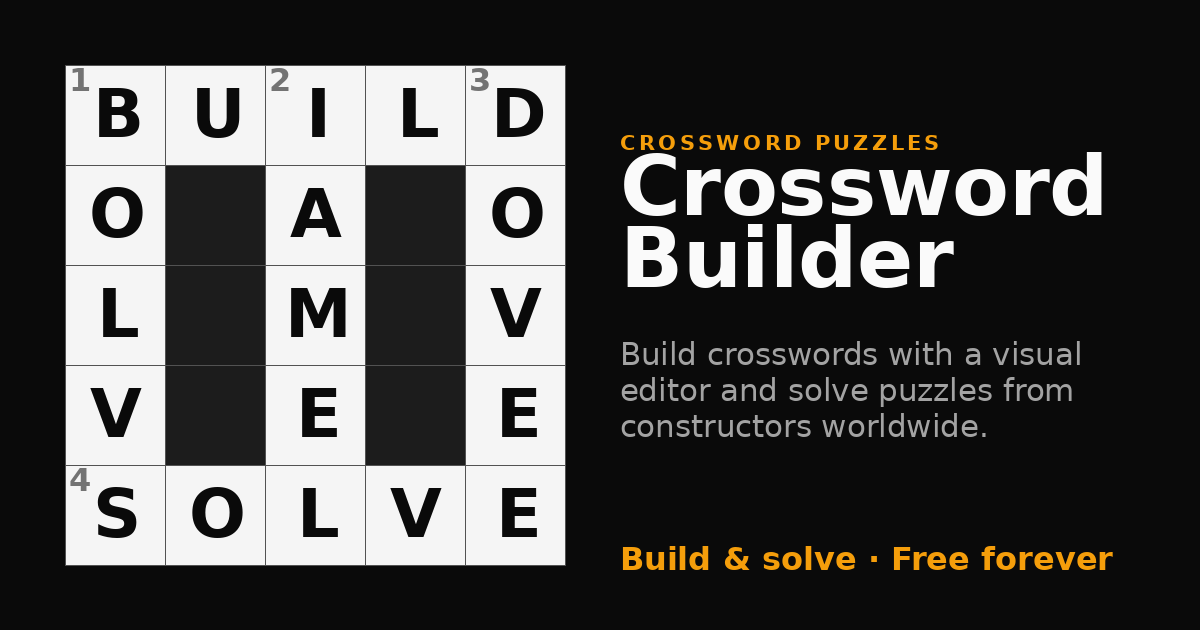
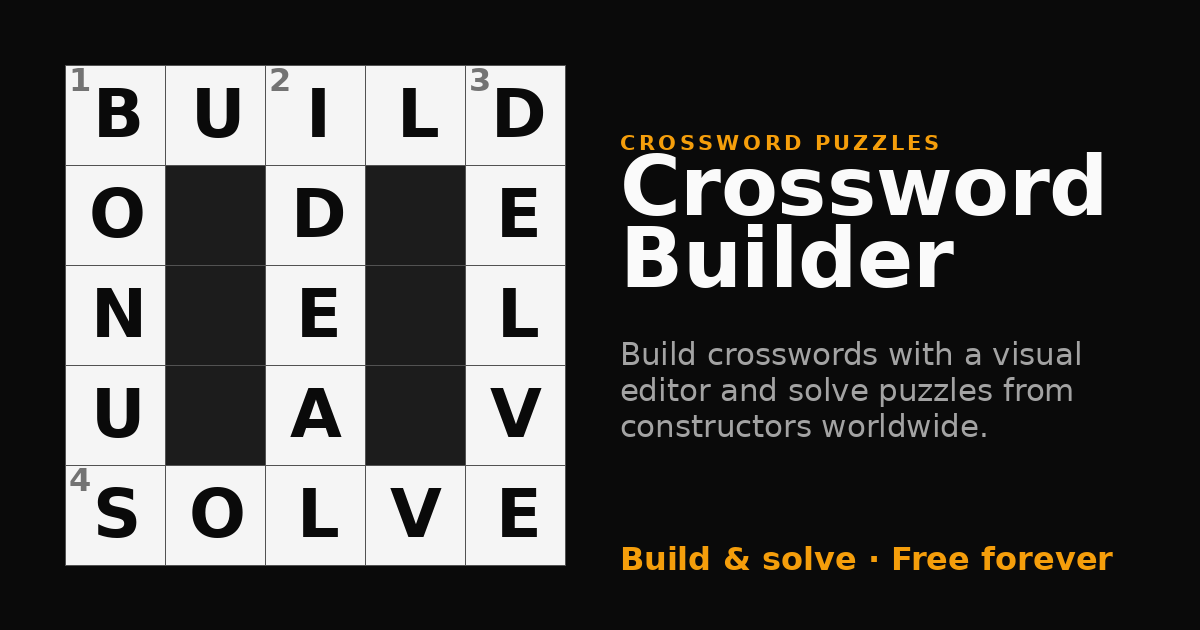
Prepare for launch

diff --git a/app/Support/SiteOgImageGenerator.php b/app/Support/SiteOgImageGenerator.php
@@ -53,18 +53,18 @@ class SiteOgImageGenerator
     private const COLOR_MUTED = [0x73, 0x73, 0x73];
 
     /**
-     * A fixed 5x5 decorative grid. `#` = block and a letter = a filled answer
-     * cell. Reads BUILD across the top row and SOLVE across the bottom row —
-     * a compact nod to the product's two halves. The remaining cells are
-     * decorative fill (the image is never solved), so they need not spell words.
+     * A fixed 5x5 mini crossword. `#` = block and a letter = a filled answer
+     * cell. It fully interlocks: BUILD / SOLVE run across the top and bottom
+     * rows, and BONUS / IDEAL / DELVE run down the three open columns — a
+     * compact nod to the product's two halves.
      *
      * @var list<string>
      */
     private const GRID = [
         'BUILD',
-        'O#A#O',
-        'L#M#V',
-        'V#E#E',
+        'O#D#E',
+        'N#E#L',
+        'U#A#V',
         'SOLVE',
     ];
 